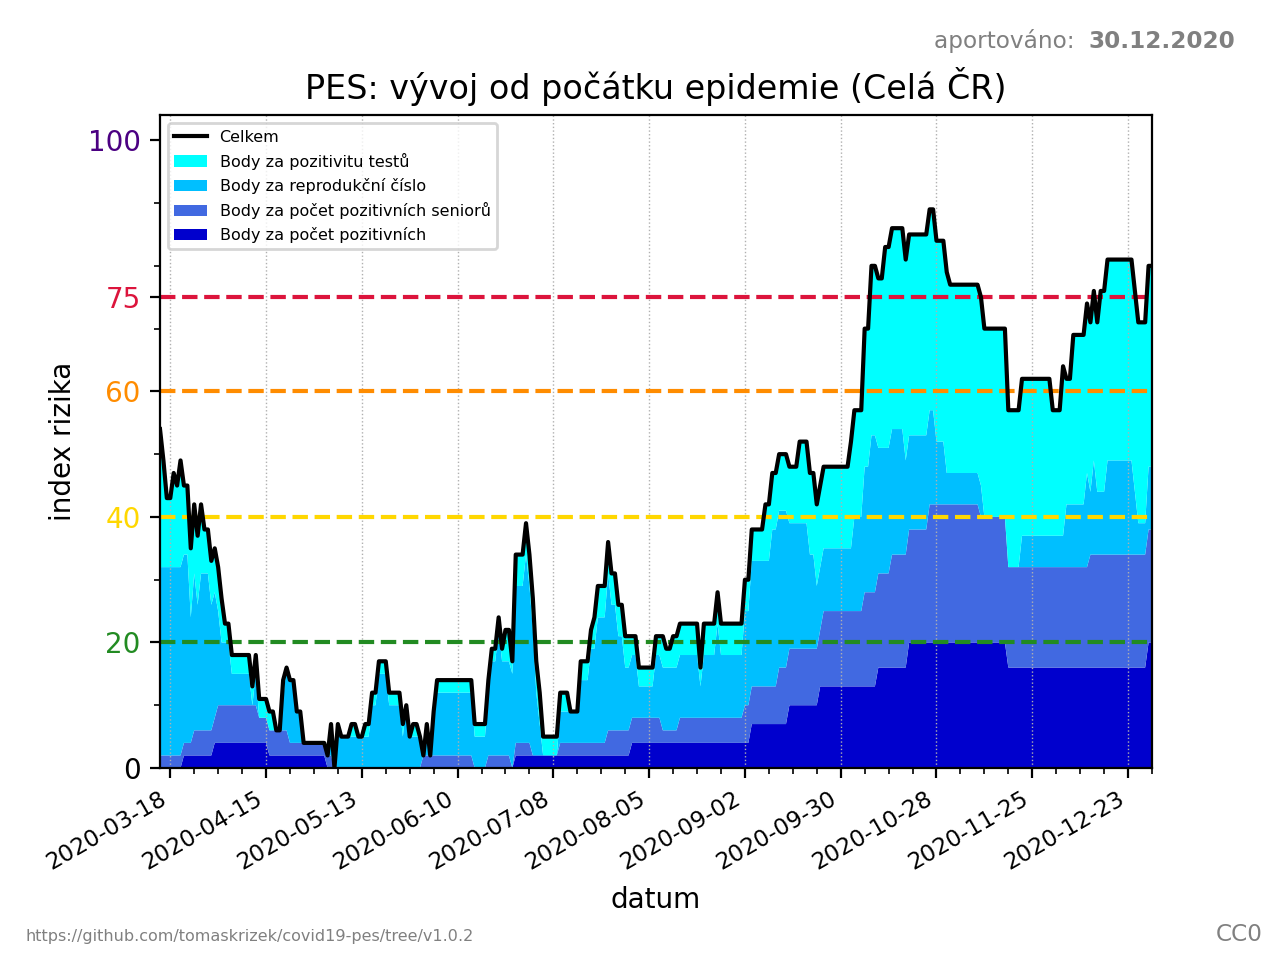
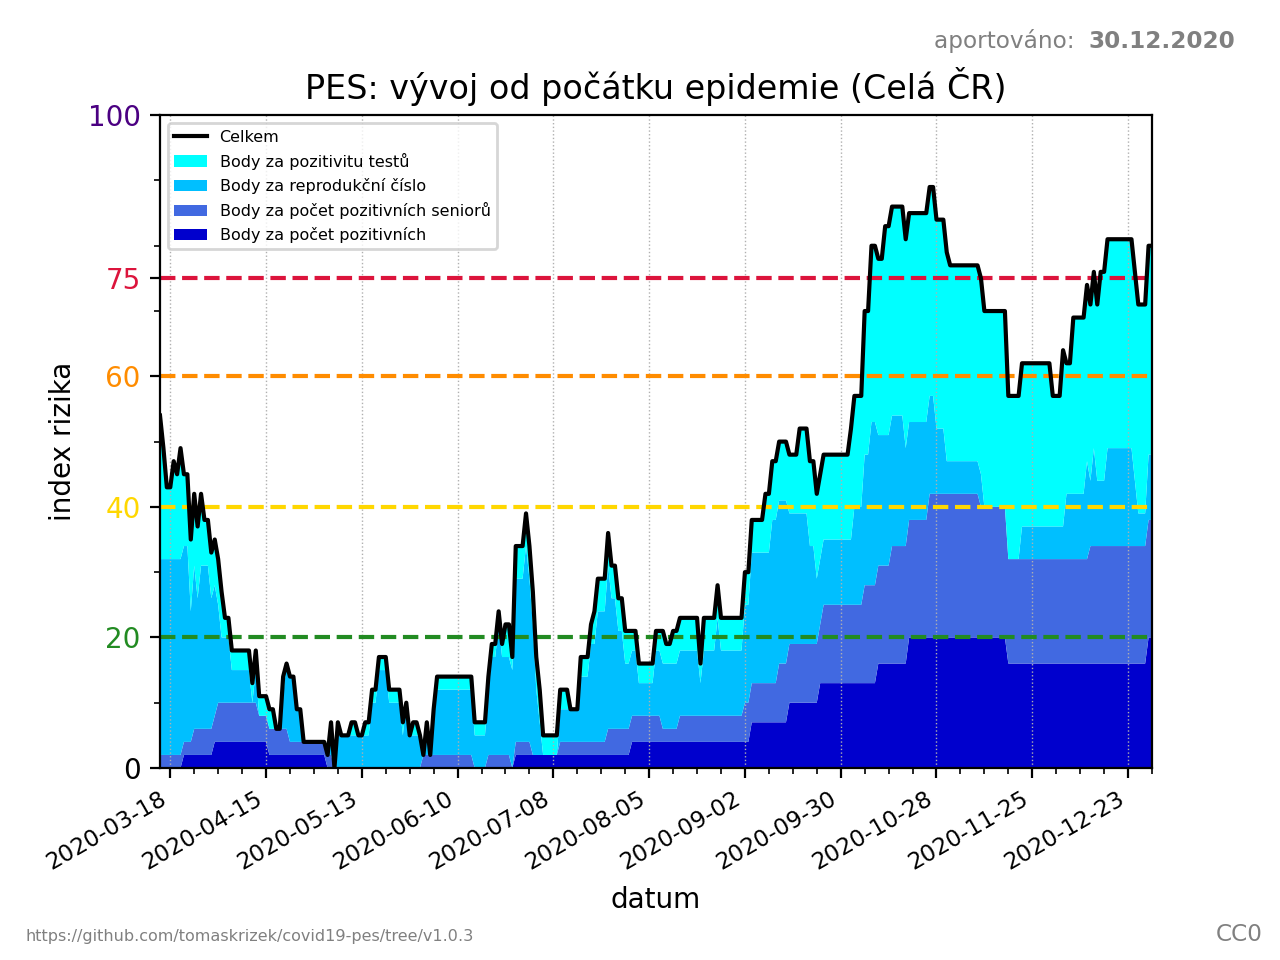
adjust max score

diff --git a/pes.py b/pes.py
@@ -33,7 +33,7 @@ plt.rcParams['axes.prop_cycle'] = cycler(color=[
     'black', 'tab:brown', 'tab:gray', 'tab:blue', 'tab:pink', 'tab:cyan'])
 
 TESTS_NEW_GUESSTIMATE = 1.0  # assume what number of tests are new tests (not re-tests)
-SRC_LINK = "https://github.com/tomaskrizek/covid19-pes/tree/v1.0.2"
+SRC_LINK = "https://github.com/tomaskrizek/covid19-pes/tree/v1.0.3"
 DATA_FILEPATH = 'data/orp.csv'
 POPULATION_FILEPATH = 'data/obyvatele.csv'
 DATA_URL = 'https://onemocneni-aktualne.mzcr.cz/api/v2/covid-19/orp.csv'  # noqa
@@ -128,11 +128,12 @@ class Pes:
 
     @property
     def score(self):
-        return (
+        score = (
             self.score_incidence_all +
             self.score_incidence_senior +
             self.score_repro +
             self.score_positivity)
+        return score if score <= 100 else 100
 
     @classmethod
     def _score_incidence(cls, incidence_per_100k):
@@ -224,7 +225,7 @@ def init_plot(x_vals, today=None):
         ax.set_xlim(min_x, max_x)
         ax.grid(which='major', axis='x', linestyle=':', lw=.5)
 
-    ax.set_ylim(0, 104)
+    ax.set_ylim(0, 100)
     ax.margins(0)
 
     ax.set_yticks([0, 20, 40, 60, 75, 100])
@@ -280,11 +281,11 @@ def line_plot(region_pes):
 
     tr = ax.transAxes
     patches = [
-        Rectangle((0, 0), 1, 20/104, transform=tr, facecolor="forestgreen", alpha=0.4),
-        Rectangle((0, 20/104), 1, 20/104, transform=tr, facecolor="gold", alpha=0.4),
-        Rectangle((0, 40/104), 1, 20/104, transform=tr, facecolor="darkorange", alpha=0.4),
-        Rectangle((0, 60/104), 1, 15/104, transform=tr, facecolor="crimson", alpha=0.4),
-        Rectangle((0, 75/104), 1, 29/104, transform=tr, facecolor="indigo", alpha=0.4),
+        Rectangle((0, 0), 1, 20/100, transform=tr, facecolor="forestgreen", alpha=0.4),
+        Rectangle((0, 20/100), 1, 20/100, transform=tr, facecolor="gold", alpha=0.4),
+        Rectangle((0, 40/100), 1, 20/100, transform=tr, facecolor="darkorange", alpha=0.4),
+        Rectangle((0, 60/100), 1, 15/100, transform=tr, facecolor="crimson", alpha=0.4),
+        Rectangle((0, 75/100), 1, 29/100, transform=tr, facecolor="indigo", alpha=0.4),
     ]
 
     for patch in patches:
@@ -350,15 +351,21 @@ def bar_plot_current(data, population, today, num=10, extra_regions=None):
     def add_value_to_bars(bars):
         for bar in bars:
             bar_height = bar.get_height()
+            x = bar.get_x() + bar.get_width() * 0.5
+            y = bar_height
+            color = score_color(bar_height)
+            if bar_height > 95:
+                y = 90
+                color = 'white'
             ax.annotate(
                 '{}'.format(bar_height),
-                xy=(bar.get_x() + bar.get_width() * 0.5, bar_height),
+                xy=(x, y),
                 xytext=(0, 2),
                 textcoords="offset points",
                 ha='center',
                 va='bottom',
                 rotation=20,
-                color=score_color(bar_height),
+                color=color,
             )
 
     region_pes = [
